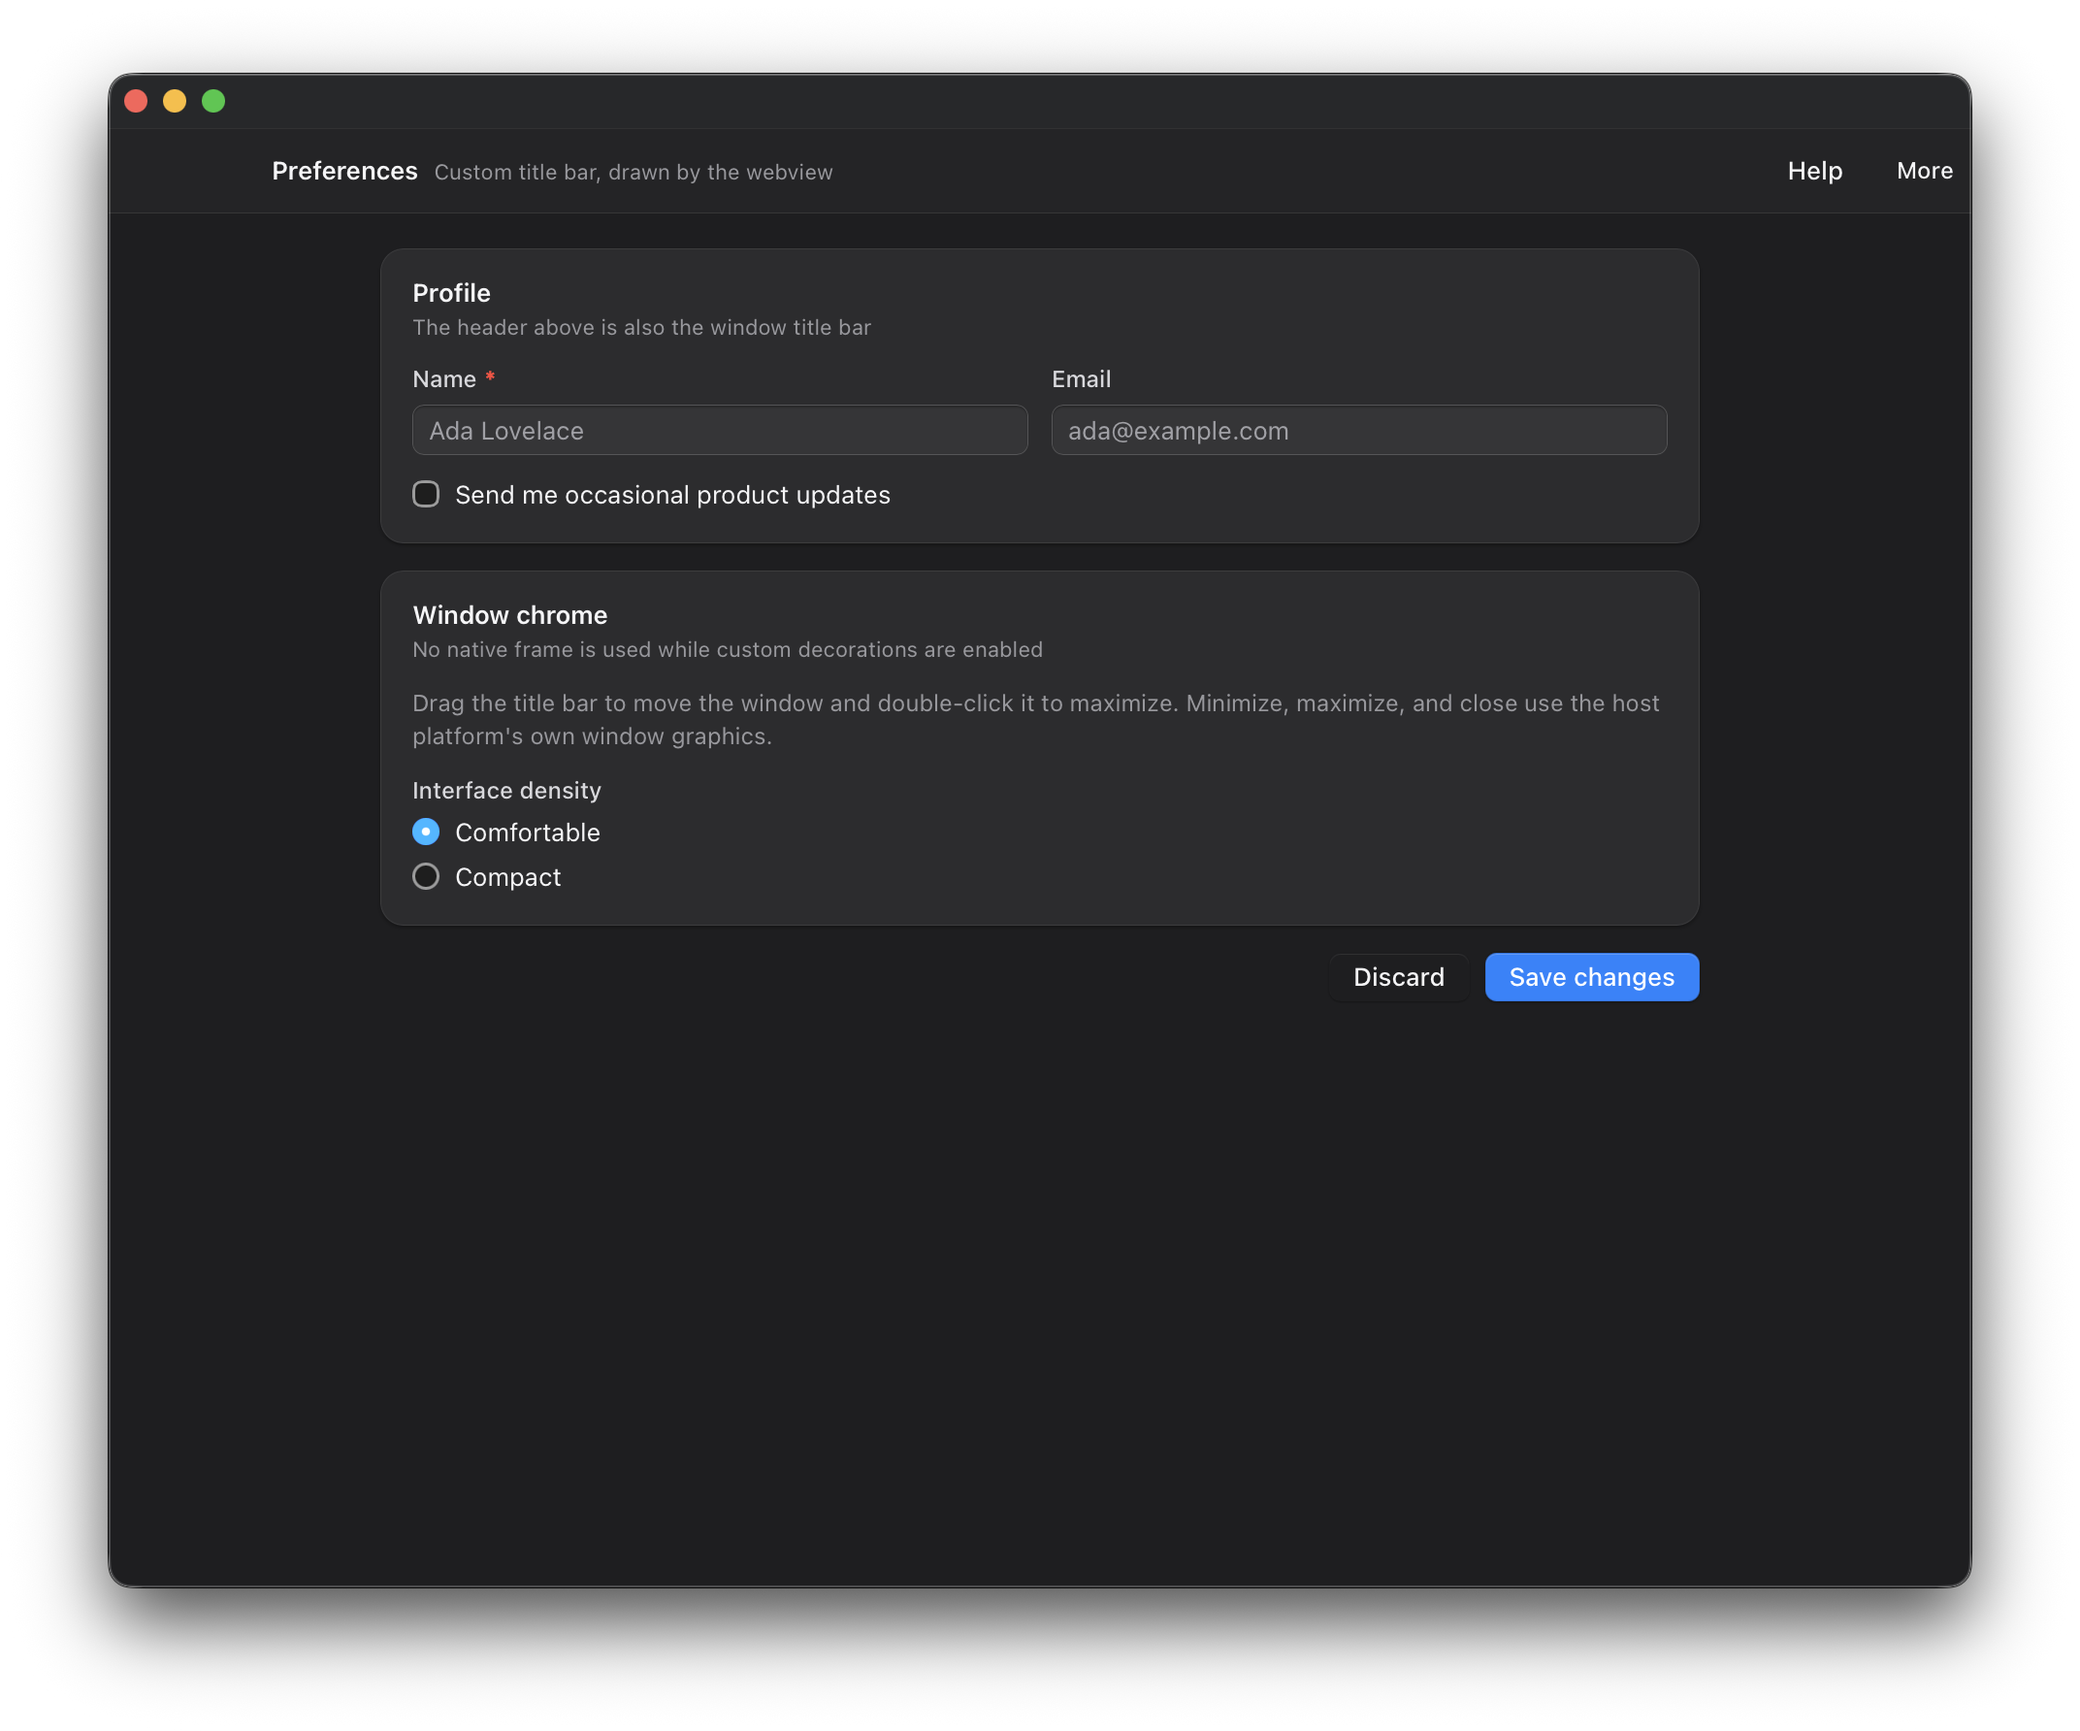
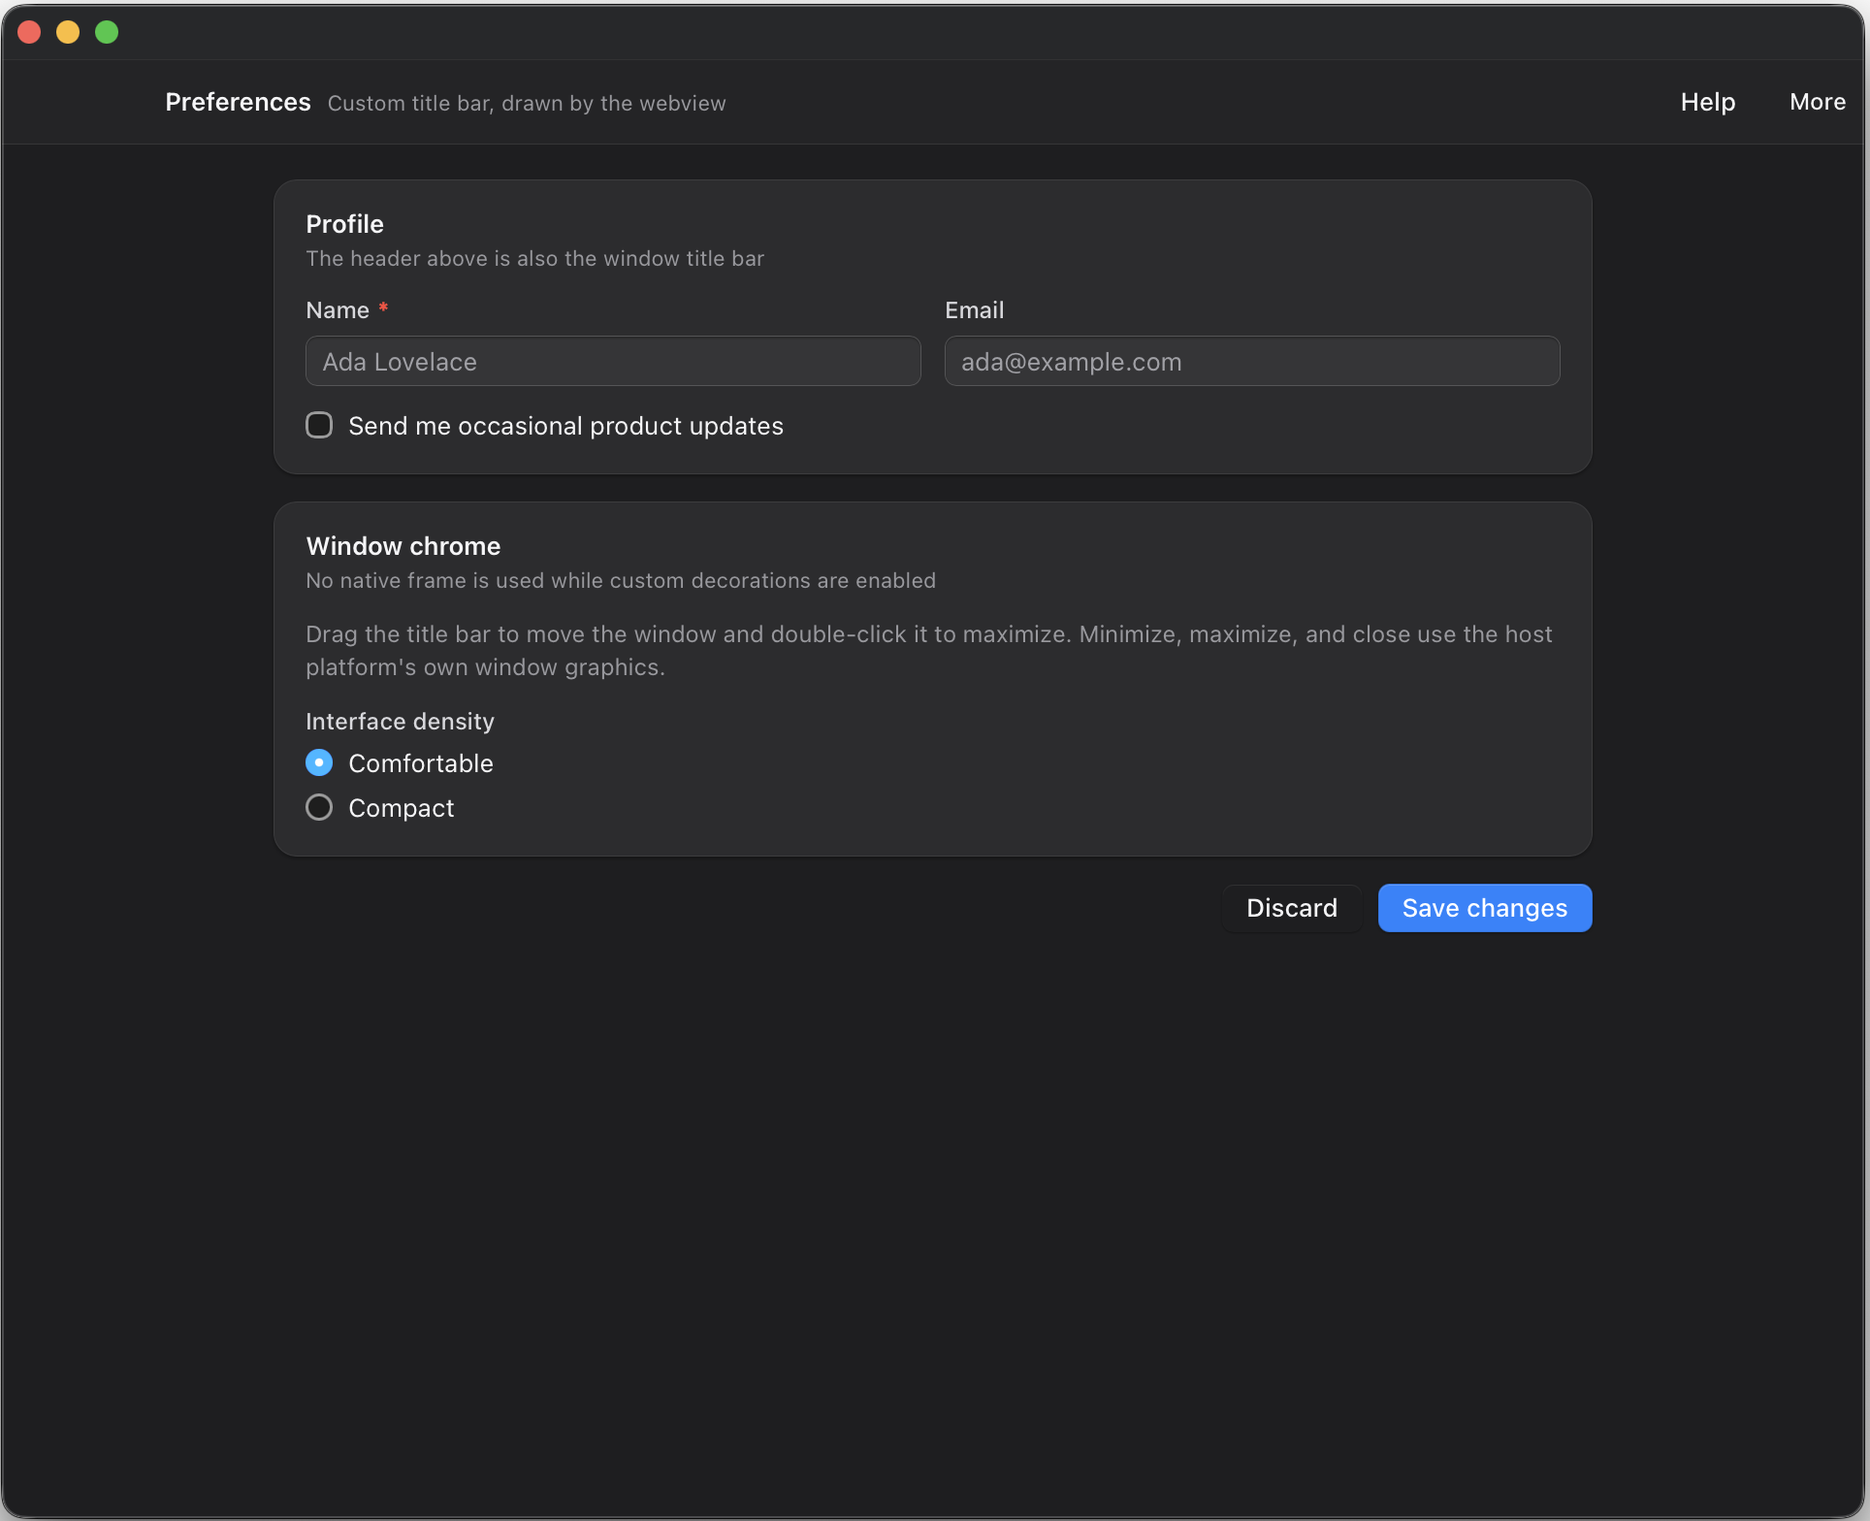
meta: screenshot fixes

diff --git a/README.md b/README.md
@@ -6,7 +6,7 @@ Cross-platform UI library built on the <a href="https://spectrelang.org">Spectre
 
 #### MacOS (Tahoe)
 
-<img src="./.github/assets/formant-macos.png" style="width: 90%">
+<img src="./.github/assets/formant-macos.png" style="width: 80%">
 
 #### Linux (GTK 4)
 
